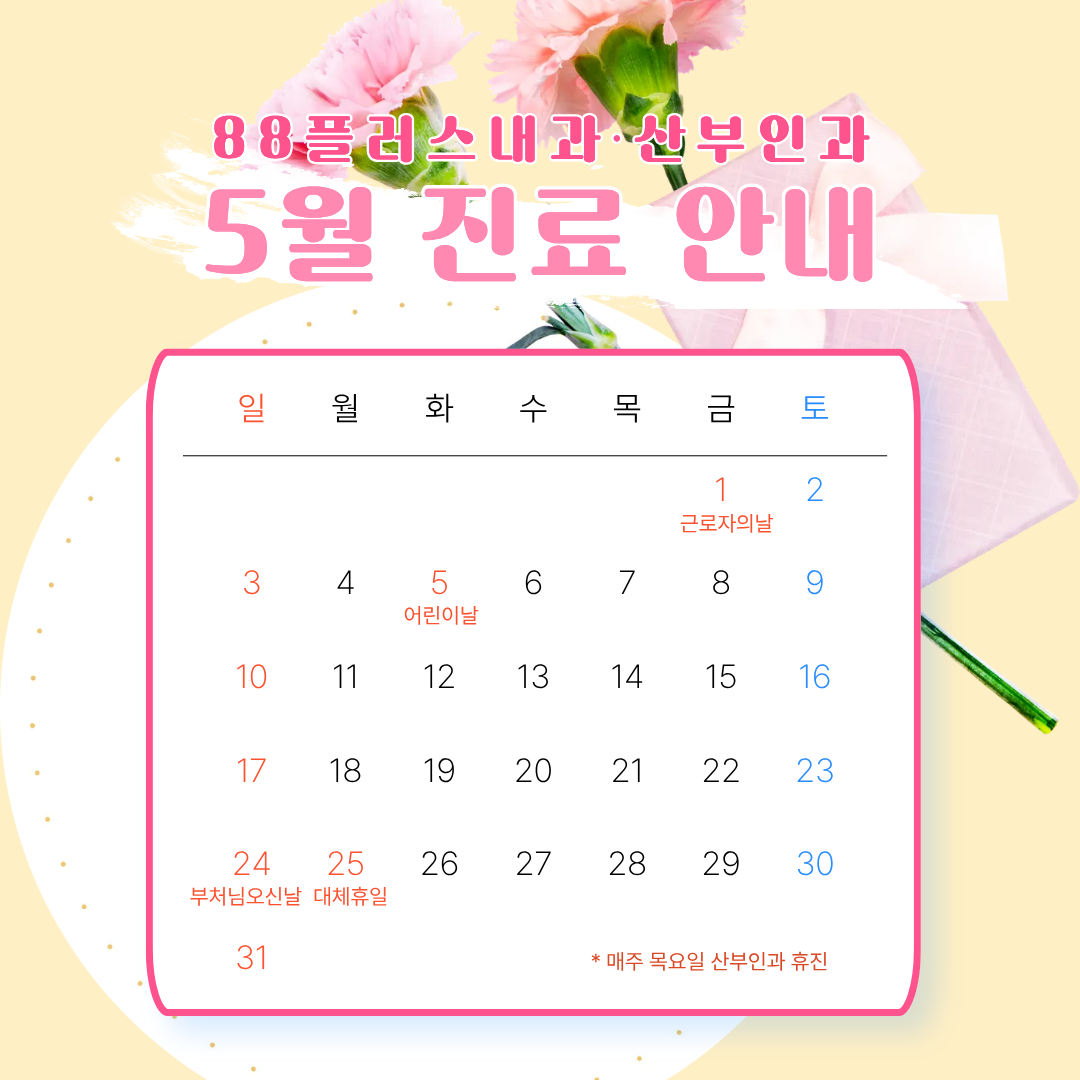
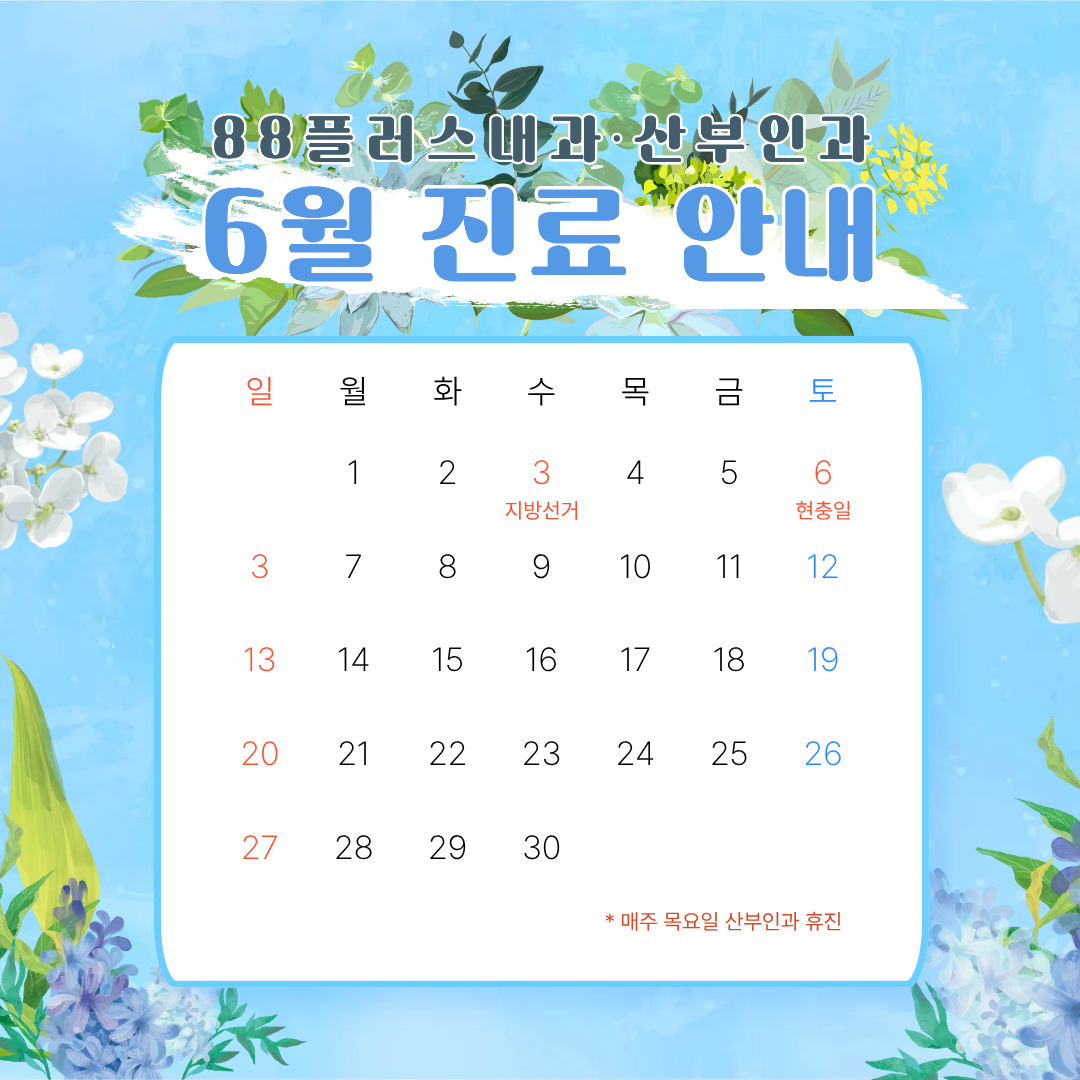
6월진료 업데이트
popup 업데이트

diff --git a/styles.css b/styles.css
@@ -1383,6 +1383,14 @@ a { color: inherit; text-decoration: none; }
   width: 660px;
   max-width: 57vw;
 }
+#floatPopup3 {
+  top: 100px;
+  left: 50%;
+  transform: translateX(-50%);
+  width: 600px;
+  max-width: 60vw;
+  z-index: 1001;
+}
 .float-popup-close {
   position: absolute;
   top: 8px;
@@ -1443,19 +1451,27 @@ a { color: inherit; text-decoration: none; }
   background: var(--color-primary-dark);
 }
 @media (max-width: 880px) {
-  /* 모바일: 두 팝업을 위쪽에 겹치게 (계단식) 배치 — 아래 콘텐츠 가림 최소화 */
+  /* 모바일: 세 팝업을 상단에 계단식으로 배치 — 아래 콘텐츠 가림 최소화 */
   .float-popup { width: 70vw; max-width: 260px; }
   #floatPopup1 {
     top: 60px;
     left: 50%;
-    transform: translateX(calc(-50% - 35px));
+    transform: translateX(calc(-50% - 40px));
+  }
+  #floatPopup3 {
+    top: 90px;
+    left: 50%;
+    transform: translateX(-50%);
+    width: 70vw;
+    max-width: 260px;
+    z-index: 1001;
   }
   #floatPopup2 {
-    top: 100px;
+    top: 120px;
     left: 50%;
     right: auto;
     bottom: auto;
-    transform: translateX(calc(-50% + 35px));
+    transform: translateX(calc(-50% + 40px));
     z-index: 999;
   }
 }

diff --git a/index.html b/index.html
@@ -248,6 +248,17 @@
     <button class="float-popup-closebtn" data-closebtn="2">닫기</button>
   </div>
 </div>
+<div class="float-popup" id="floatPopup3" data-popup="3">
+  <button class="float-popup-close" data-close="3" aria-label="닫기">×</button>
+  <img src="pop2.png" alt="진료 안내 3" class="float-popup-image">
+  <div class="float-popup-actions">
+    <label class="float-popup-checkbox">
+      <input type="checkbox" class="popup-hide-cb" data-cb="3">
+      <span>오늘 하루 보지 않기</span>
+    </label>
+    <button class="float-popup-closebtn" data-closebtn="3">닫기</button>
+  </div>
+</div>
 
 <button class="to-top-btn" id="toTopBtn" aria-label="페이지 위로">
   <svg viewBox="0 0 24 24"><path d="M12 19V5 M5 12 L12 5 L19 12"/></svg>